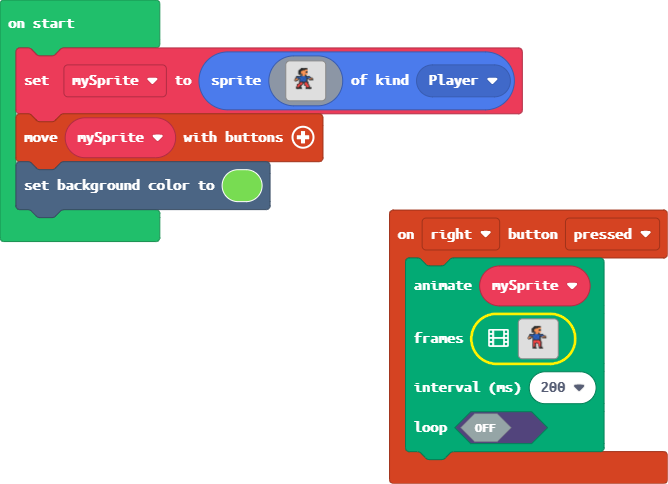
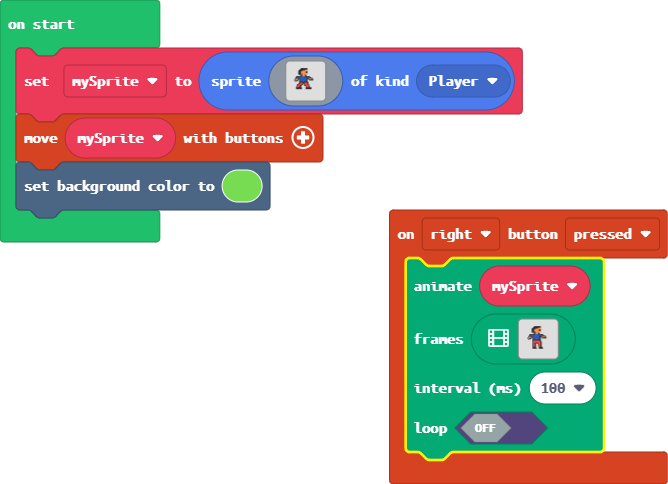
Update main.blocks, main.ts, images.g.jres, images.g.ts

diff --git a/images.g.ts b/images.g.ts
@@ -219,34 +219,34 @@ namespace myImages {
 ..............................
 ..............................
 ..............................
-.........ffffffff.............
-........fffffffff.............
-.......fffffff444.............
-......fffff444444.............
-......fff444444ff.............
-......fff444444ff.............
-......fff44444444.............
-......fffff444444.............
-..........f444f...............
-........fff444ff..............
-...ffffff888888fffff..........
-...f8888888888888888f.........
-..ff88f888888888ff888ff.......
-..f44f.f88888888f.f4444f......
-.f444f.f88888888f..fffff......
-.f4ff..f88888888f.............
-..f....f88888888f.............
-.......fffffffffff............
-.......f222f.f222f............
-......ff222f.f222f............
-....ff2222f..f2222f...........
-....f222ff...ff222f...........
-....f222f......f222f..........
-...f222ff......f222f..........
-...fffffff.....fffffff........
-...fffffff.....fffffff........
-..............................
-..............................
+..........ffffffff............
+.........fffffffff............
+........fffffff444............
+.......fffff444444............
+.......fff444444ff............
+.......fff444444ff............
+.......fff44444444............
+.......fffff444444............
+...........f444f..............
+.........fff444ff.............
+....ffffff888888fffff.........
+....f8888888888888888f........
+...ff88f888888888ff888ff......
+...f44f.f88888888f.f4444f.....
+..f444f.f88888888f..fffff.....
+..f4ff..f88888888f............
+...f....f88888888f............
+........ffffffffff............
+........f22222222f............
+........f222222222f...........
+........f2222f2222f...........
+........f22ff.f222f...........
+........f22f...f22f...........
+........f22f...f22f...........
+........f22f...f22f...........
+........f22f....f2f...........
+........ffff....ffff..........
+........fffff...fffff.........
 ..............................
 ..............................
 ..............................

diff --git a/main.ts b/main.ts
@@ -2,7 +2,7 @@ controller.right.onEvent(ControllerButtonEvent.Pressed, function () {
     animation.runImageAnimation(
     mySprite,
     assets.animation`anim`,
-    200,
+    100,
     false
     )
 })
